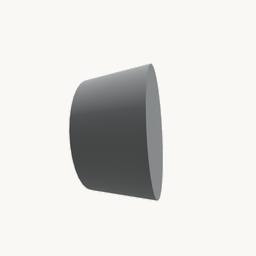
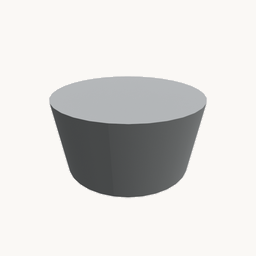
More pose/view overrides (metal scoops, open_box, organizer_beige, pastel_blue_cup, mug_holder, jja_ramen, pink_clock, paper_bowl); v18

Changed region(s): [[0.1875, 0.25, 0.8125, 0.7812]]

diff --git a/docs/gallery.html b/docs/gallery.html
@@ -222,7 +222,7 @@
         card.onkeydown = (e) => { if (e.key === 'Enter') go(); };
 
         const thumb = obj.thumb
-          ? `<img src="objects/${obj.id}/thumb.png?v=17" alt="${escapeHtml(obj.label)}" loading="lazy" onerror="this.parentElement.innerHTML='<div class=placeholder>&#9645;</div>'">`
+          ? `<img src="objects/${obj.id}/thumb.png?v=18" alt="${escapeHtml(obj.label)}" loading="lazy" onerror="this.parentElement.innerHTML='<div class=placeholder>&#9645;</div>'">`
           : '<div class="placeholder">&#9645;</div>';
         card.innerHTML = `
           <div class="frame">${thumb}</div>

diff --git a/wiki/gallery.html b/wiki/gallery.html
@@ -222,7 +222,7 @@
         card.onkeydown = (e) => { if (e.key === 'Enter') go(); };
 
         const thumb = obj.thumb
-          ? `<img src="objects/${obj.id}/thumb.png?v=17" alt="${escapeHtml(obj.label)}" loading="lazy" onerror="this.parentElement.innerHTML='<div class=placeholder>&#9645;</div>'">`
+          ? `<img src="objects/${obj.id}/thumb.png?v=18" alt="${escapeHtml(obj.label)}" loading="lazy" onerror="this.parentElement.innerHTML='<div class=placeholder>&#9645;</div>'">`
           : '<div class="placeholder">&#9645;</div>';
         card.innerHTML = `
           <div class="frame">${thumb}</div>

diff --git a/wiki/render_thumbnails.py b/wiki/render_thumbnails.py
@@ -51,6 +51,13 @@ POSE_OVERRIDE = {
     "large_peg": "002",        # 017 was an impossible pose
     "lemon_squeezer": "003",
     "light_green_basket": "001",
+    "open_box": "002",
+    "organizer_beige": "001",
+    "pastel_blue_cup": "000",
+    "mug_holder": "009",
+    "jja_ramen": "000",
+    "pink_clock": "012",
+    "paper_bowl": "001",
 }
 
 # Per-object camera-direction override (object frame, +z up), for objects whose
@@ -66,6 +73,8 @@ VIEW_OVERRIDE = {
     "balloon_whisk": np.array([1.0, 0.65, 0.55]),  # default view rotated 90deg about +z
     "black_holder_with_handle": np.array([-0.541, -1.063, 0.55]),  # default view rotated 300deg
     "container_pink": np.array([1.098, 0.466, 0.55]),  # default view rotated 80deg about +z
+    "metal_scoop_big": np.array([1.0, 0.65, 0.55]),    # default view rotated 90deg about +z
+    "metal_scoop_small": np.array([-1.0, -0.65, 0.55]),  # default view rotated 270deg about +z
 }
 
 
